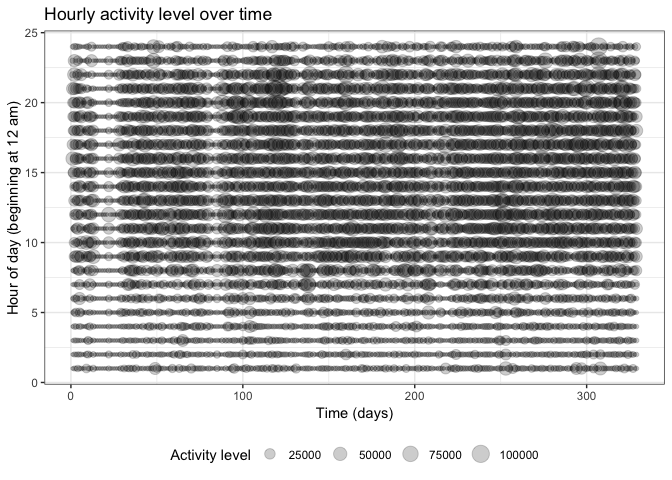
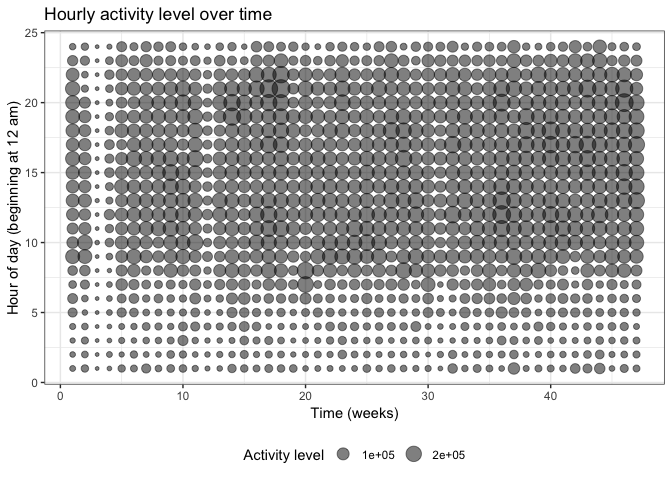
changed last plot to look at time in weeks instead of days.

diff --git a/p8105_mtp_amv2187.md b/p8105_mtp_amv2187.md
@@ -203,9 +203,9 @@ accel_data %>%
   group_by(day) %>%
   ggplot(aes(y = total_activity_hr, x = hour, group = day, 
              color = day)) +
-  geom_smooth(se = F) +
+  geom_smooth(se = F) + # method = 'gam' and formula 'y ~ s(x, bs = "cs")'
   labs(
-    title = '24-hour activity profile by DOW',
+    title = 'Average 24-hour activity profile by DOW',
     x = 'Hour of day (beginning at 12 am)',
     y = 'Activity Level',
     caption = 'Figure 3',
@@ -222,17 +222,18 @@ accel_data %>%
 ``` r
 #hourly + hourly_DOW
 
+# 24-hour activity profile over time for each week
 accel_data %>%
-  group_by(week, day, hour) %>% # group by week, day, and hour
+  group_by(week, hour) %>% # group by week and hour
   summarise(total_activity_hr = sum(activity_level)) %>% # get total activity for each hour of every day
   ungroup %>%
   mutate(day_over_time = ceiling(row_number()/24)) %>% # variable to group by day 1:329
-  ggplot(aes(x = day_over_time, y = hour)) +
-  geom_point(aes(size = total_activity_hr), alpha = 0.2) +
+  ggplot(aes(x = week, y = hour)) +
+  geom_point(aes(size = total_activity_hr), alpha = 0.5) +
   labs(
     title = 'Hourly activity level over time',
     y = 'Hour of day (beginning at 12 am)',
-    x = 'Time (days)',
+    x = 'Time (weeks)',
     #caption = 'Figure 4',
     size = 'Activity level'
   ) + 
